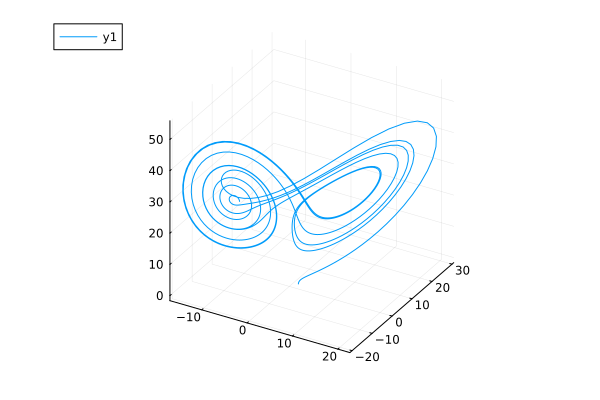
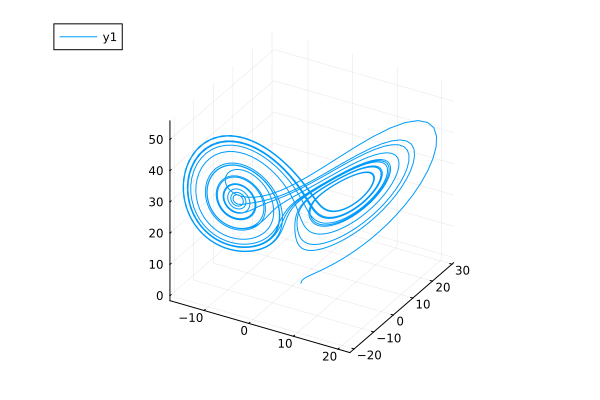
Updates

diff --git a/README.md b/README.md
@@ -7,9 +7,9 @@ I leveraged JuliaGPU (https://juliagpu.org/) to execute Julia programs on NVIDIA
 
 *What is Lorenz system?*
 The Lorenz system is used to model certain types of chaotic dynamical systems. In my case study, I utilize a set of three equations, shown below, to simulate the movement of a particle $(x, y, z)$ at each time step. These equations incorporate constants: $dt=0.01, σ=10, ρ=28, β=8/3$. The particle's movement at each step is based on its position in the previous step.
-$$x_{step} = x_{step-1} + σ * (y_{step-1} -x_{step-1}) * dt$$
-$$y_{step} = y_{step-1} + x_{step-1} * (ρ-z_{step-1}) - y_{step-1}$$
-$$z_{step} = z_{step-1} + x_{step-1}*y_{step-1} - β*z$$
+$$x_{step} = x_{step-1} + (σ * (y_{step-1} -x_{step-1})) * dt$$ 
+$$y_{step} = y_{step-1} + (x_{step-1} * (ρ-z_{step-1}) - y_{step-1}) * dt$$
+$$z_{step} = z_{step-1} + (x_{step-1}*y_{step-1} - β*z_{step-1}) * dt$$
 
 My GPU implementation leverages CUDA.jl (v3.0) (https://juliagpu.org/) to execute the Lorenz system on the GPU. The CUDA kernel computes the positions (x, y, z) for the next step concurrently at each iteration, utilizing the provided three equations.
 
@@ -46,7 +46,7 @@ This project utilizes CUDA version of the Lorenz system. The hardware platform i
 <tr><td><img src="images/memory.png"></td>
 <td><img src="images/average_time.png"></td></tr>
 </table>
-The benchmark results indicate that memory usage increases linearly with the number of steps. Average execution time also increases with steps, exhibiting some fluctuation around 500,000 steps. This indicates the CUDA
+The benchmark results indicate that memory usage increases linearly with the number of steps. Average execution time also increases with steps, exhibiting some fluctuation around 500,000 steps. 
 
 
 ## Code Organization
